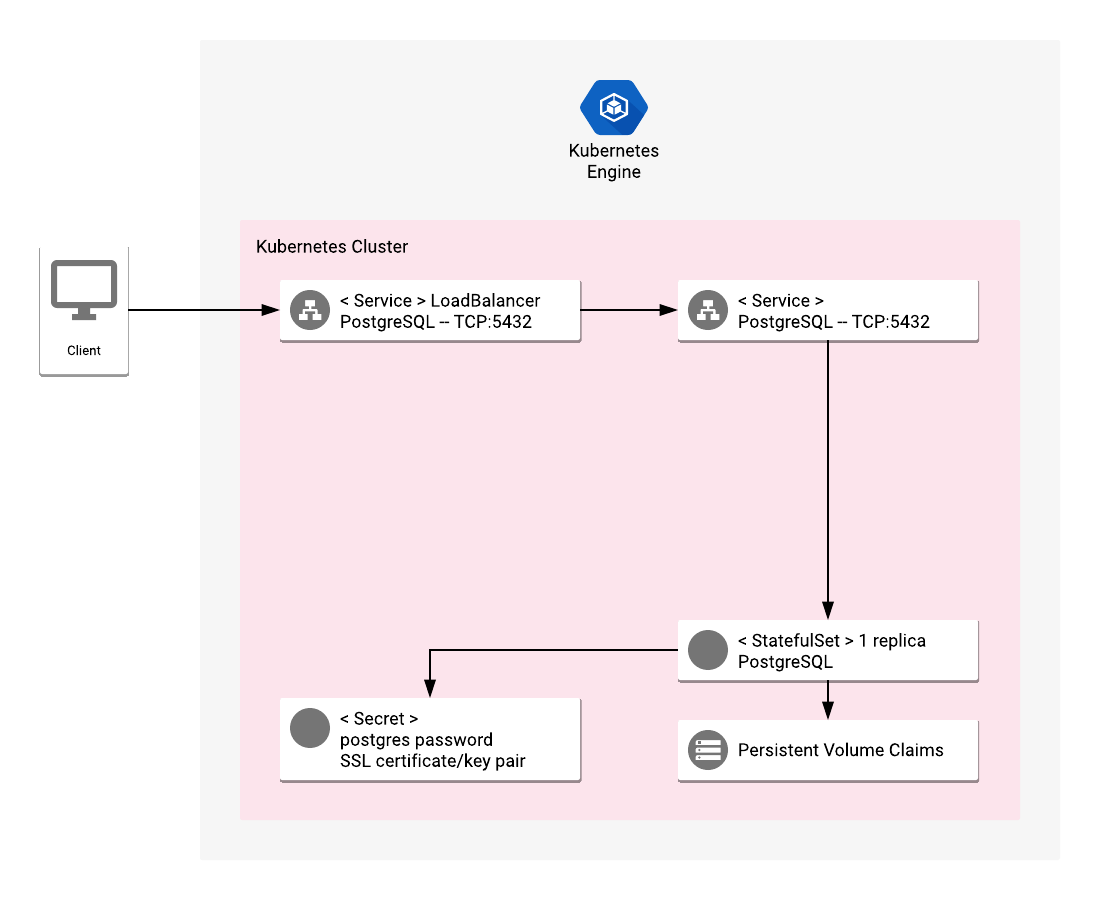
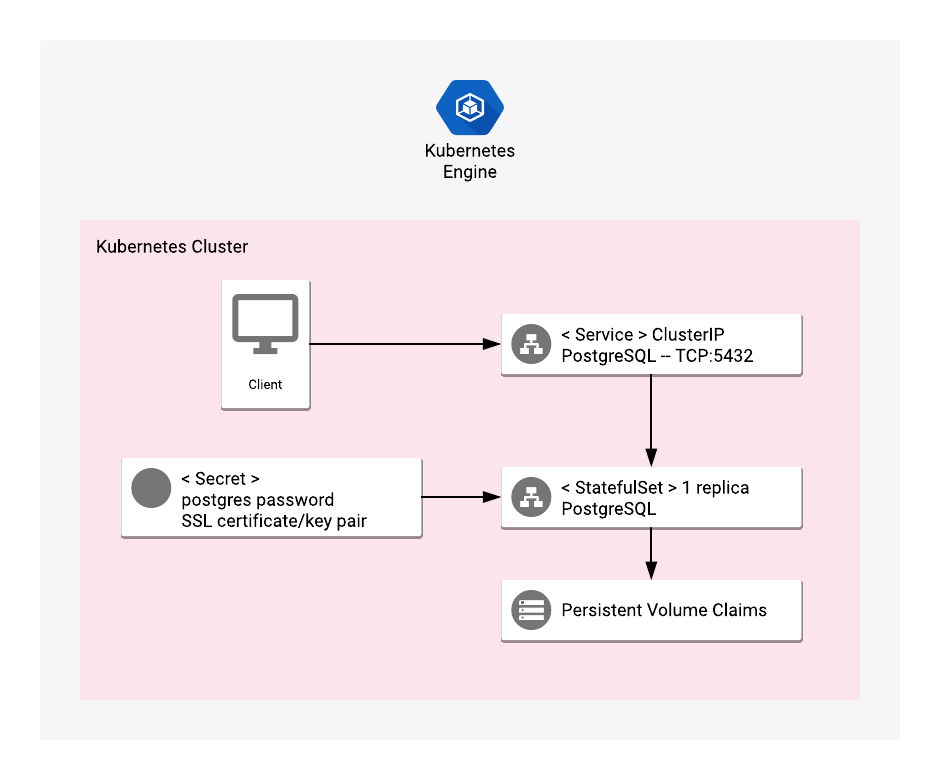
Postgres updates for non gke clusters (#459)

Changed region(s): [[0.0309, 0.2462, 0.8947, 0.9231], [0.4628, 0.0923, 0.617, 0.2462]]

diff --git a/k8s/postgresql/README.md b/k8s/postgresql/README.md
@@ -16,9 +16,12 @@ Popular open source software stacks on Kubernetes packaged by Google and made av
 
 This solution will install single instance of PostgreSQL server into your Kubernetes cluster.
 
-The PostgreSQL Pod is managed by a ReplicaSet with the number of replicas set to one. The PostgreSQL Pod uses a Persistent Volume to store data, and a LoadBalancer Service to expose the database port externally. Communication between client and server is encrypted. If you need to limit access to the PostgreSQL instance, you must configure GCP firewall rules.
+The PostgreSQL Pod is managed by a ReplicaSet with the number of replicas set to one. The PostgreSQL Pod uses
+a Persistent Volume to store data, and a ClusterIP Service to expose the database port (which can be optionally
+exposed publicly with a LoadBalancer type of Service). Communication between client and server is encrypted.
 
-To install the application you will need to set up initial password for postgres user, PostgreSQL volume size and generate or provide TLS key and certificate. All required steps are covered further in this README.
+To install the application you will need to set up initial password for postgres user, PostgreSQL volume size
+and generate or provide TLS key and certificate. All required steps are covered further in this README.
 
 # Installation
 
@@ -152,14 +155,37 @@ kubectl --namespace $NAMESPACE create secret generic $APP_INSTANCE_NAME-tls \
         --from-file=./server.crt --from-file=./server.key
 ```
 
-Generate random password and set PosgreSQL volume size in Gigabytes:
+Generate random password and set PostgreSQL volume size in Gigabytes:
 
 ```shell
 export POSTGRESQL_DB_PASSWORD=$(openssl rand 9 | openssl base64 -A | openssl base64)
 export POSTGRESQL_VOLUME_SIZE=10
 ```
 
-Enable Stackdriver Metrics Exporter:
+Expose the Service externally:
+
+By default, the Service isn't exposed externally. To enable this option, change
+the value to `true`.
+
+```shell
+export EXPOSE_PUBLIC_SERVICE=false
+```
+
+##### Create dedicated service accounts
+
+Define the service accounts variable:
+
+```shell
+export POSTGRESQL_SERVICE_ACCOUNT="${APP_INSTANCE_NAME}-postgresql-sa"
+```
+
+Create the service account:
+
+```shell
+kubectl create serviceaccount ${POSTGRESQL_SERVICE_ACCOUNT} --namespace ${NAMESPACE}
+```
+
+##### Enable Stackdriver Metrics Exporter:
 
 > **NOTE:** Your GCP project should have Stackdriver enabled. For non-GCP clusters, export of metrics to Stackdriver is not supported yet.
 
@@ -178,8 +204,10 @@ expanded manifest file for future updates to the application.
 helm template chart/postgresql \
   --name $APP_INSTANCE_NAME \
   --namespace $NAMESPACE \
+  --set postgresql.serviceAccount=$POSTGRESQL_SERVICE_ACCOUNT \
   --set postgresql.image=$IMAGE_POSTGRESQL \
   --set postgresql.volumeSize=$POSTGRESQL_VOLUME_SIZE \
+  --set postgresql.exposePublicService=$EXPOSE_PUBLIC_SERVICE \
   --set db.password=$POSTGRESQL_DB_PASSWORD \
   --set metrics.image=$IMAGE_METRICS_EXPORTER \
   --set metrics.enabled=$METRICS_EXPORTER_ENABLED > ${APP_INSTANCE_NAME}_manifest.yaml
@@ -215,13 +243,20 @@ To view the app, open the URL in your browser.
 
 ### Sign in to your new PostgreSQL database
 
-To sign in to PosgreSQL, get the ip address:
+Forward the port locally:
 
 ```shell
-EXTERNAL_IP=$(kubectl --namespace $NAMESPACE get service $APP_INSTANCE_NAME-postgresql-svc -o jsonpath='{.status.loadBalancer.ingress[0].ip}')
+kubectl port-forward \
+  --namespace "${NAMESPACE}" \
+  "${APP_INSTANCE_NAME}-postgresql-deployment-0" 5432
+```
+
+Sign in to PostgreSQL:
+
+```shell
 PGPASSWORD=$(kubectl get secret "${APP_INSTANCE_NAME}-secret" --output=jsonpath='{.data.password}' | openssl base64 -d -A)
 
-echo PGPASSWORD=$PGPASSWORD sslmode=require psql -U postgres -h $EXTERNAL_IP
+echo PGPASSWORD=$PGPASSWORD sslmode=require psql -U postgres -h 127.0.0.1
 ```
 
 # Application metrics
